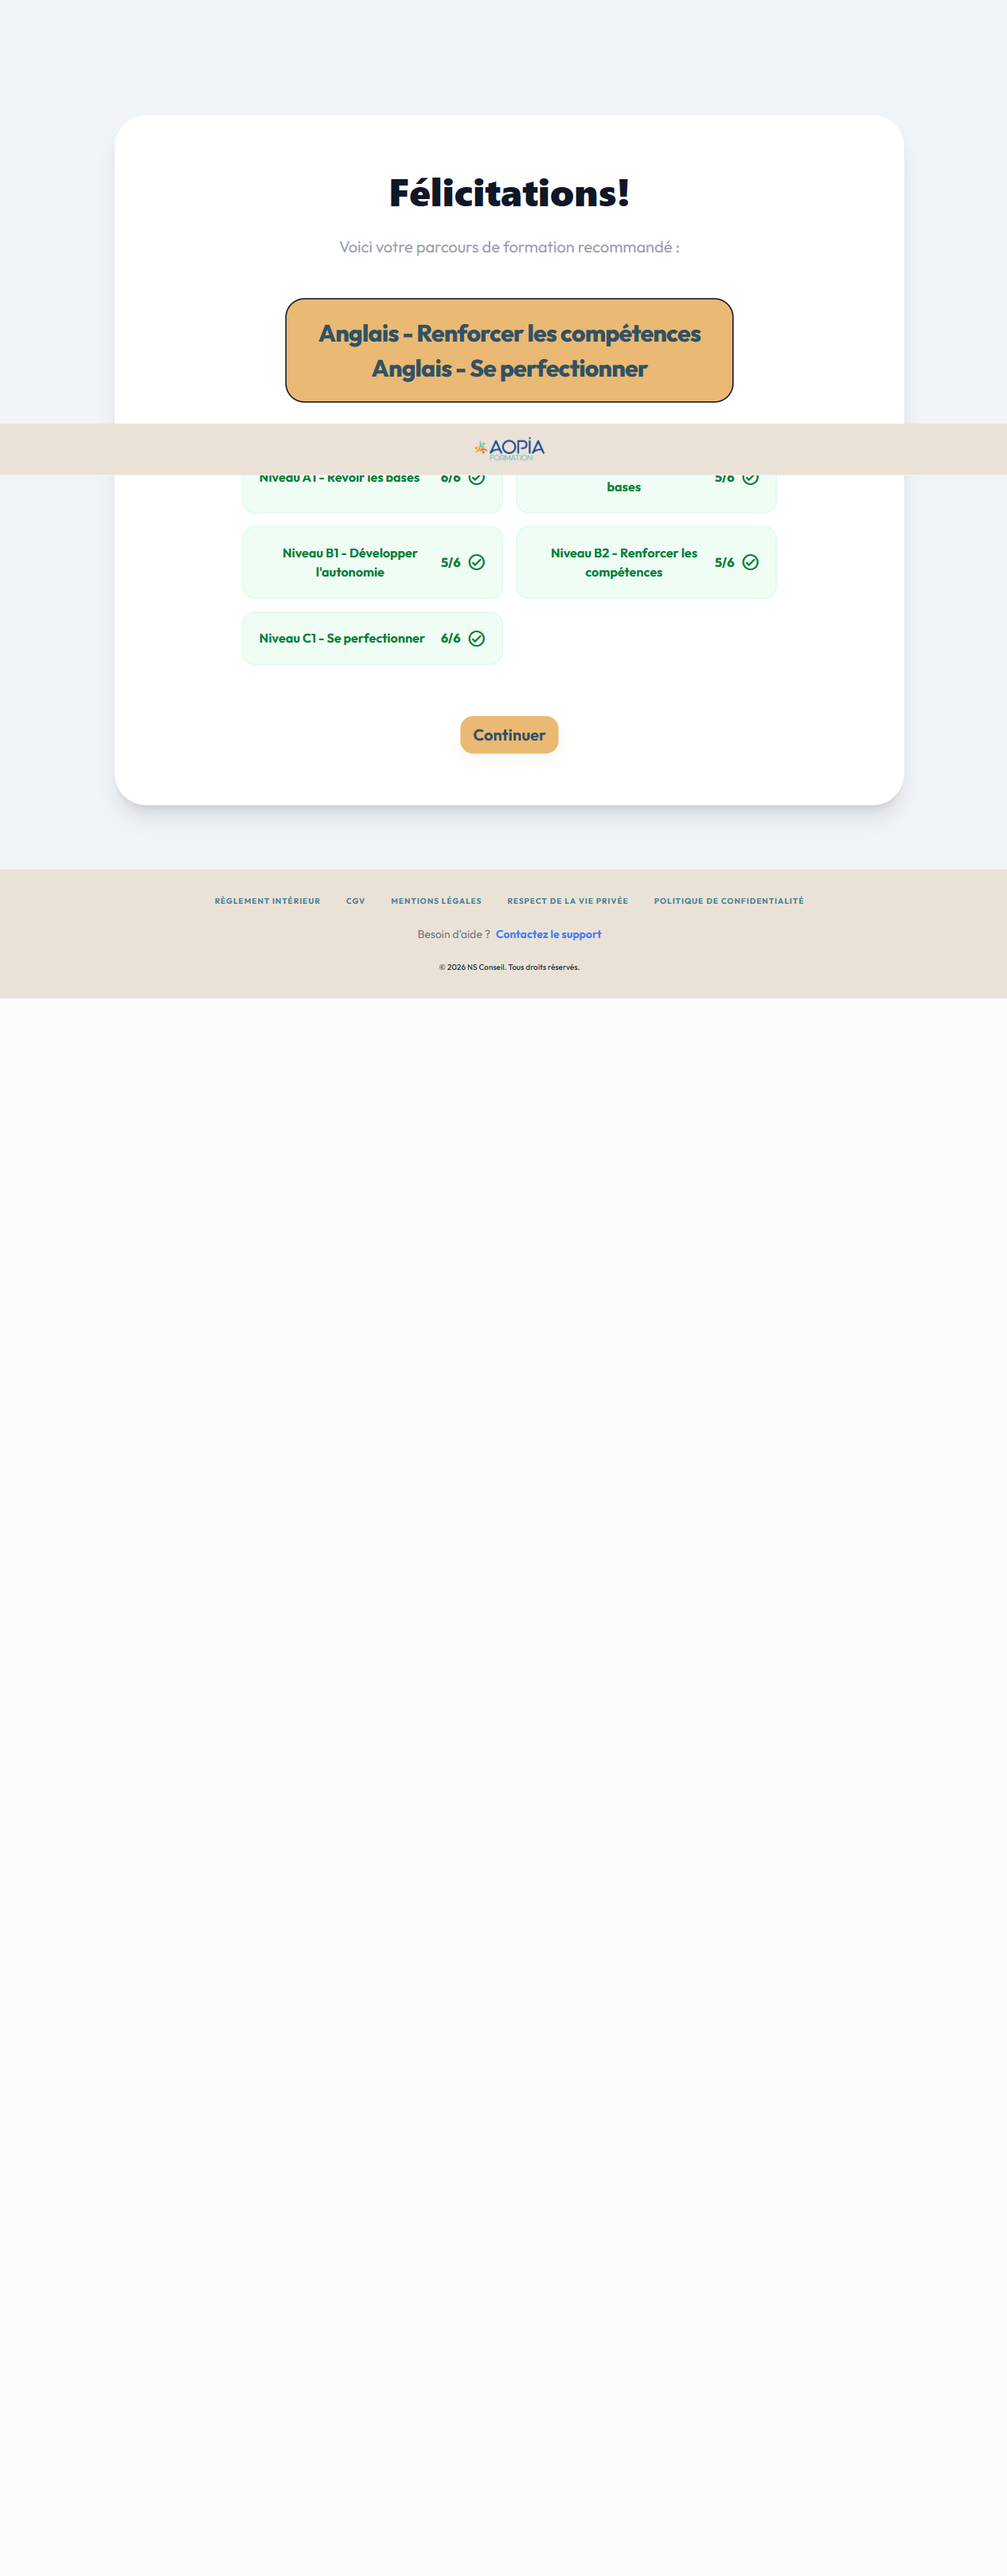
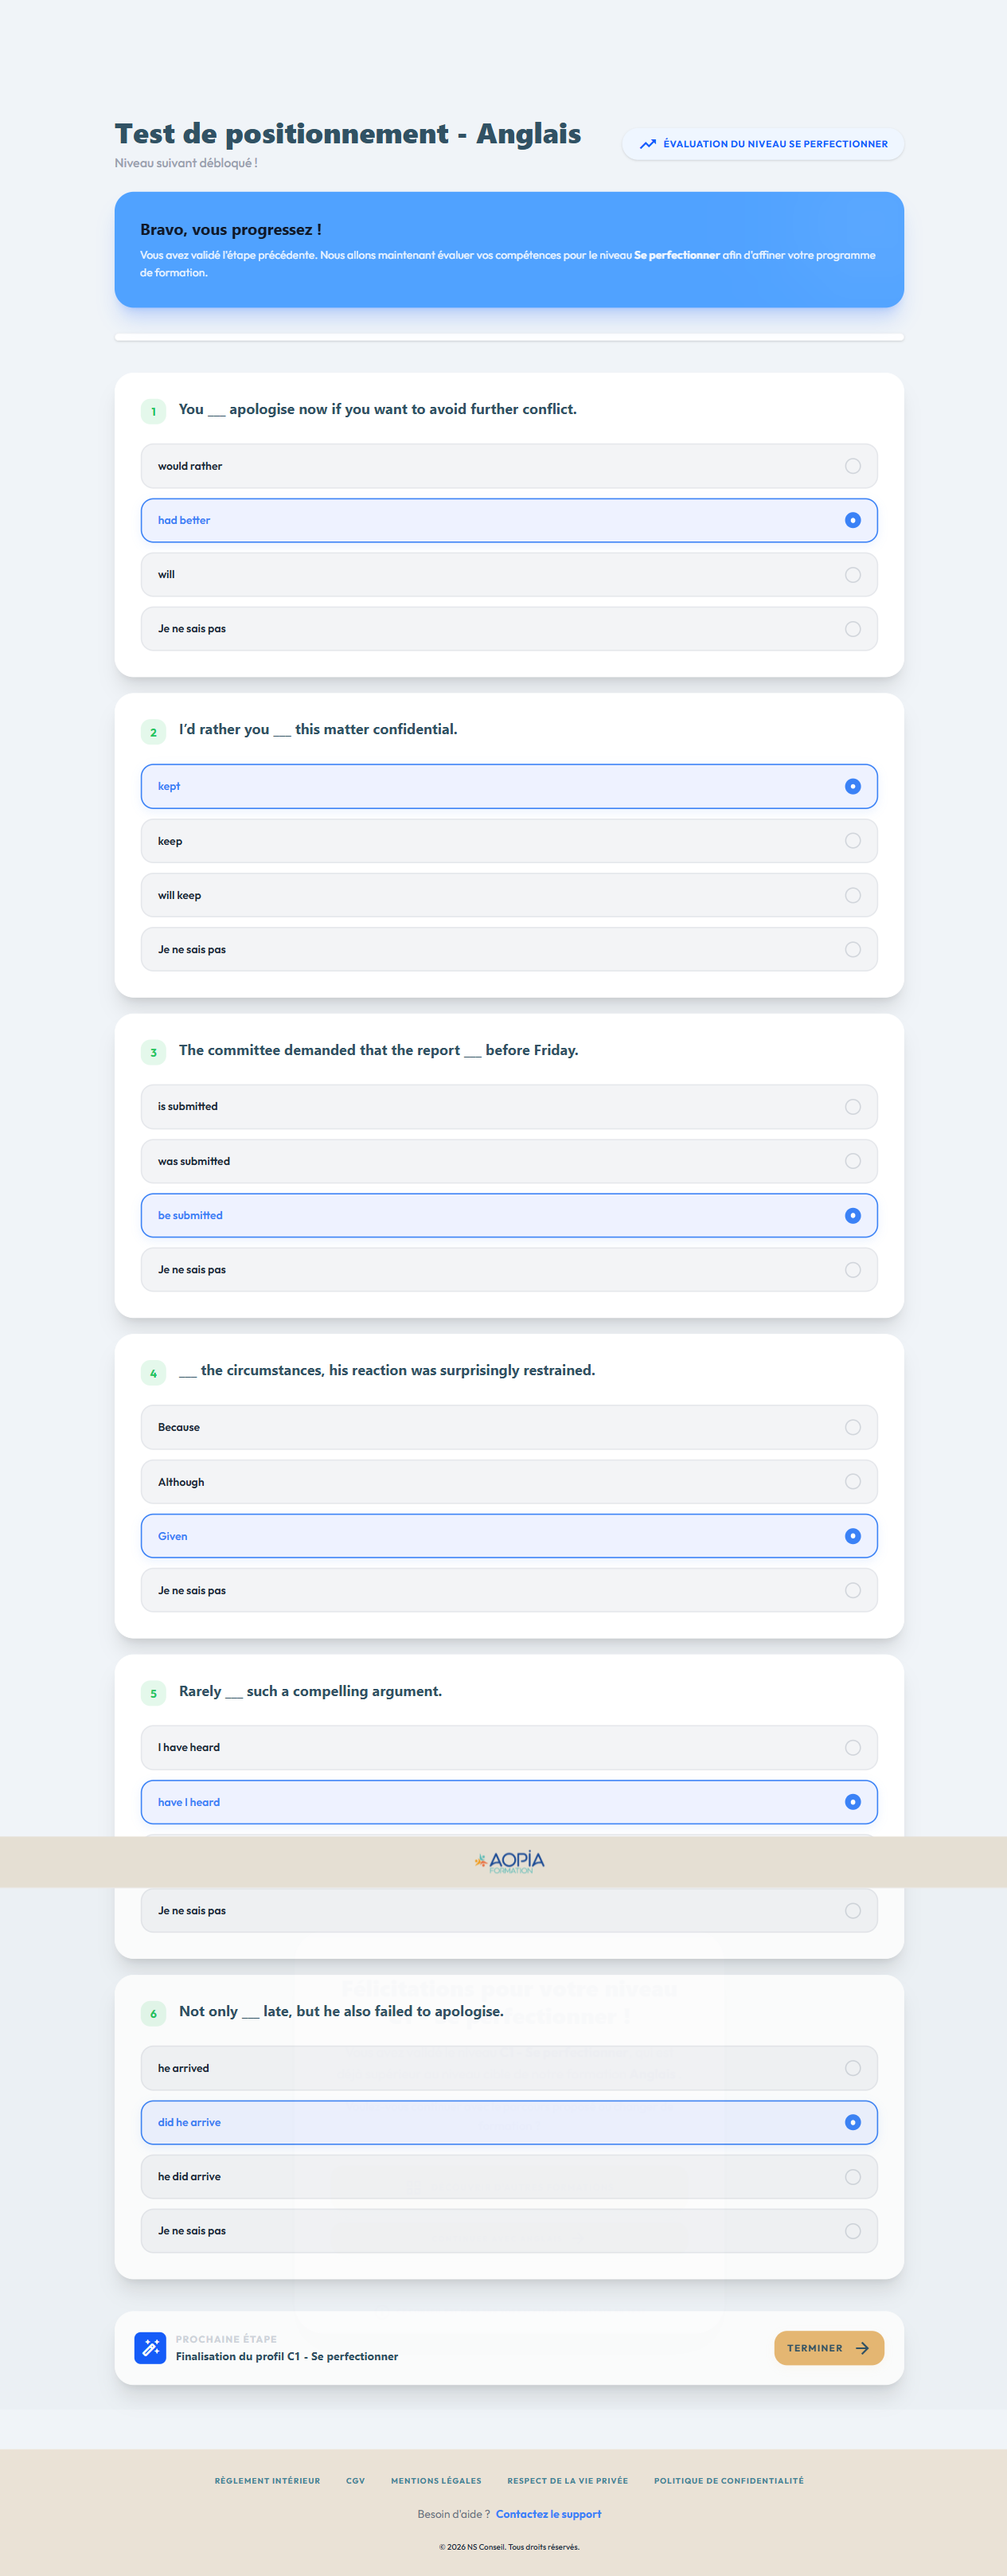
feat: Introduce positioning test view with dynamic question loading, session restoration, and associated assets/tests.

diff --git a/playwright-report/index.html b/playwright-report/index.html
@@ -82,4 +82,4 @@ Error generating stack: `+a.message+`
     <div id='root'></div>
   </body>
 </html>
[2 lines of base64/hex data omitted]

diff --git a/projet-app/frontend/src/views/PositionnementView.vue b/projet-app/frontend/src/views/PositionnementView.vue
@@ -586,81 +586,17 @@ async function finishTest(overrideSession = null) {
     console.warn("Could not fetch parcours rules, using fallback logic:", error);
   }
 
-  // ── Fallback: hardcoded logic if no parcours rules matched ──
+  // ── Fallback: logic if no parcours rules matched ──
   if (!usedParcoursRule) {
-    let l1 = ensureNiveau(currentLevel.label);
-    let l2 = ensureNiveau(levels.value[currentLevelIndex.value + 1]?.label);
-
-    const isEnglish = (formationSlug && formationSlug.toLowerCase().includes("anglais")) || 
-                      (formationLabel && formationLabel.toLowerCase().includes("anglais"));
-    const isFrench = (formationSlug && formationSlug.toLowerCase().includes("fran\u00e7ais")) || 
-                     (formationLabel && formationLabel.toLowerCase().includes("fran\u00e7ais"));
-
-    const stopLabel = currentLevel.label.toUpperCase();
-
-    if (isEnglish) {
-      if (["A1", "A2", "B1"].some(l => stopLabel.includes(l))) {
-        const a2 = levels.value.find(l => l.label.toUpperCase().includes("A2"))?.label || "A2";
-        const b1 = levels.value.find(l => l.label.toUpperCase().includes("B1"))?.label || "B1";
-        l1 = ensureNiveau(a2);
-        l2 = ensureNiveau(b1);
-      } else if (stopLabel.includes("B2")) {
-        const b1 = levels.value.find(l => l.label.toUpperCase().includes("B1"))?.label || "B1";
-        const b2 = levels.value.find(l => l.label.toUpperCase().includes("B2"))?.label || "B2";
-        l1 = ensureNiveau(b1);
-        l2 = ensureNiveau(b2);
-      } else if (stopLabel.includes("C1")) {
-        const b2 = levels.value.find(l => l.label.toUpperCase().includes("B2"))?.label || "B2";
-        const c1 = levels.value.find(l => l.label.toUpperCase().includes("C1"))?.label || "C1";
-        l1 = ensureNiveau(b2);
-        l2 = ensureNiveau(c1);
-      }
-    } else if (isFrench) {
-      if (stopLabel.includes("DÉCOUVERTE") || stopLabel.includes("DECOUVERTE")) {
-        const l_dec = levels.value.find(l => l.label.toUpperCase().includes("DECOUVERTE") || l.label.toUpperCase().includes("DÉCOUVERTE"))?.label || "Découverte";
-        const l_tech = levels.value.find(l => l.label.toUpperCase().includes("TECHNIQUE"))?.label || "Technique";
-        l1 = ensureNiveau(l_dec);
-        l2 = ensureNiveau(l_tech);
-      } else if (stopLabel.includes("TECHNIQUE") || stopLabel.includes("PROFESSIONNEL")) {
-        const l_tech = levels.value.find(l => l.label.toUpperCase().includes("TECHNIQUE"))?.label || "Technique";
-        const l_pro = levels.value.find(l => l.label.toUpperCase().includes("PROFESSIONNEL"))?.label || "Professionnel";
-        l1 = ensureNiveau(l_tech);
-        l2 = ensureNiveau(l_pro);
-      } else if (stopLabel.includes("AFFAIRES")) {
-        const l_pro = levels.value.find(l => l.label.toUpperCase().includes("PROFESSIONNEL"))?.label || "Professionnel";
-        const l_aff = levels.value.find(l => l.label.toUpperCase().includes("AFFAIRES"))?.label || "Affaires";
-        l1 = ensureNiveau(l_pro);
-        l2 = ensureNiveau(l_aff);
-      }
-    } else {
-      if (stopLabel.includes("INITIAL")) {
-        const l_ini = levels.value.find(l => l.label.toUpperCase().includes("INITIAL"))?.label || "Initial";
-        const l_bas = levels.value.find(l => l.label.toUpperCase().includes("BASIQUE"))?.label || "Basique";
-        l1 = ensureNiveau(l_ini);
-        l2 = ensureNiveau(l_bas);
-      } else if (stopLabel.includes("BASIQUE") || stopLabel.includes("OPÉRATIONNEL") || stopLabel.includes("OPERATIONNEL")) {
-        const l_bas = levels.value.find(l => l.label.toUpperCase().includes("BASIQUE"))?.label || "Basique";
-        const l_ope = levels.value.find(l => l.label.toUpperCase().includes("OPERATIONNEL") || l.label.toUpperCase().includes("OPÉRATIONNEL"))?.label || "Opérationnel";
-        l1 = ensureNiveau(l_bas);
-        l2 = ensureNiveau(l_ope);
-      } else if (stopLabel.includes("AVANCÉ") || stopLabel.includes("AVANCE")) {
-        const l_ope = levels.value.find(l => l.label.toUpperCase().includes("OPERATIONNEL") || l.label.toUpperCase().includes("OPÉRATIONNEL"))?.label || "Opérationnel";
-        const l_ava = levels.value.find(l => l.label.toUpperCase().includes("AVANCE") || l.label.toUpperCase().includes("AVANCÉ"))?.label || "Avancé";
-        l1 = ensureNiveau(l_ope);
-        l2 = ensureNiveau(l_ava);
-      } else if (stopLabel.includes("EXPERT")) {
-        const l_ava = levels.value.find(l => l.label.toUpperCase().includes("AVANCE") || l.label.toUpperCase().includes("AVANCÉ"))?.label || "Avancé";
-        const l_exp = levels.value.find(l => l.label.toUpperCase().includes("EXPERT"))?.label || "Expert";
-        l1 = ensureNiveau(l_ava);
-        l2 = ensureNiveau(l_exp);
-      }
+    let l1 = formationLabel || 'Parcours personnalisé';
+    
+    // Si on a des niveaux on tente de proposer le niveau validé ou le focus actuel
+    if (levels.value && levels.value.length > 0) {
+      const safeIdx = Math.min(Math.max(0, currentLevelIndex.value), levels.value.length - 1);
+      l1 = ensureNiveau(levels.value[safeIdx].label);
     }
-
-    if (l2 && l1 !== l2) {
-      finalRecommendation.value = `${formationLabel} - ${l1} & ${l2}`;
-    } else {
-      finalRecommendation.value = `${formationLabel} - ${l1}`;
-    }
+    
+    finalRecommendation.value = l1;
   }
 
   // 2. Identify last validated level so far
@@ -674,15 +610,39 @@ async function finishTest(overrideSession = null) {
   // 3. CHECK FOR HIGH LEVEL ALERT (Dynamic checking)
   let isHighLevel = false;
   
-  if (alertSettings.value.formations.length > 0) {
-    const isTargetFormation = alertSettings.value.formations.some(f => 
-      (formationLabel || "").toLowerCase().includes(f.toLowerCase()) ||
-      (formationSlug || "").toLowerCase().includes(f.toLowerCase())
-    );
+  const validatedLevelObj = levels.value.find(l => l.label === finalLevelLabel);
+
+  if (validatedLevelObj) {
+    // Determine the level of the proposed parcours dynamically
+    const sortedLevelsDesc = [...levels.value].sort((a, b) => b.order - a.order);
     
-    if (isTargetFormation) {
-      const validatedLevelObj = levels.value.find(l => l.label === finalLevelLabel);
-      if (validatedLevelObj && validatedLevelObj.order >= alertSettings.value.thresholdOrder) {
+    // Check if the user validated the highest possible level for this formation
+    const isMaxLevel = sortedLevelsDesc.length > 0 && validatedLevelObj.order === sortedLevelsDesc[0].order;
+
+    const proposedLevelObj = sortedLevelsDesc.find(l => {
+      const rawLabel = l.label.toLowerCase();
+      const cleanL = rawLabel.replace(/^niveau\s+/i, '').trim();
+      const recText = finalRecommendation.value.toLowerCase();
+      // Match whole words for short labels like A1, A2 to avoid substring mismatch
+      if (cleanL.length <= 2) {
+        const regex = new RegExp(`\\b${cleanL}\\b`, 'i');
+        return regex.test(recText);
+      }
+      return recText.includes(rawLabel) || recText.includes(cleanL);
+    });
+
+    if (isMaxLevel || (proposedLevelObj && validatedLevelObj.order > proposedLevelObj.order)) {
+      isHighLevel = true;
+    }
+
+    // Fallback to legacy admin threshold if it couldn't be detected dynamically
+    if (!isHighLevel && alertSettings.value.formations.length > 0) {
+      const isTargetFormation = alertSettings.value.formations.some(f => 
+        (formationLabel || "").toLowerCase().includes(f.toLowerCase()) ||
+        (formationSlug || "").toLowerCase().includes(f.toLowerCase())
+      );
+      
+      if (isTargetFormation && validatedLevelObj.order >= alertSettings.value.thresholdOrder) {
         isHighLevel = true;
       }
     }

diff --git a/tests/Anglais/C1-OK.spec.ts b/tests/Anglais/C1-OK.spec.ts
@@ -86,7 +86,7 @@ test("test TOEIC complet jusqu'au C1", async ({ page }) => {
   await page.getByRole("button", { name: "Terminer arrow_forward" }).click();
   // --- Capture d’écran finale ---
   await page.screenshot({ path: "TOEIC-C1-OK-2.png", fullPage: true });
-  await page.getByRole("button", { name: "Continuer" }).click();
-  await page.waitForTimeout(3000);
+  // await page.getByRole("button", { name: "Continuer" }).click();
+  await page.waitForTimeout(6000);
   await page.screenshot({ path: "TOEIC-C1-OK.png", fullPage: true });
 });
